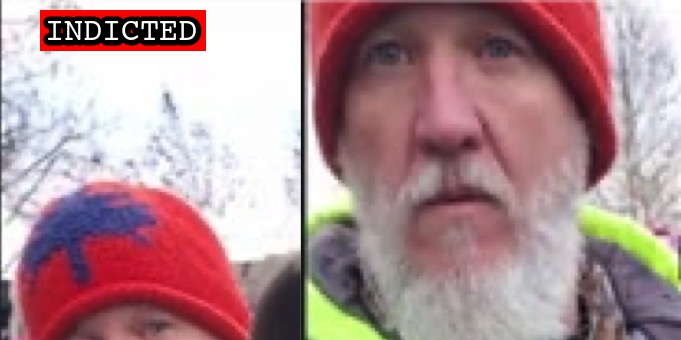
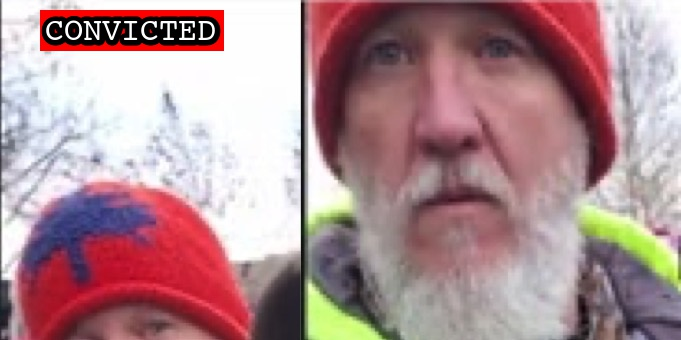
Latest schedule

Changed region(s): [[0.0617, 0.0294, 0.3392, 0.1765]]

diff --git a/docs/_suspects/daniel-egtvedt.md b/docs/_suspects/daniel-egtvedt.md
@@ -4,11 +4,11 @@ lastName: Egtvedt
 hashtag: TreasonIsTiring
 aka:
 residence: Maryland
-status: Indicted
+status: Convicted
 date: 2021-02-09
 charged: 2021-02-09
 indicted: 2021-03-03
-convicted:
+convicted: 2022-12-16
 acquitted:
 sentenced:
 dismissed:
@@ -17,7 +17,7 @@ plea_hearing:
 trial_date: 2022-12-16
 trial_type: Bench Trial
 jury_selection:
-sentencing:
+sentencing: 2023-03-16
 status_conference:
 age: 57
 occupation:
@@ -32,7 +32,7 @@ raid:
 perpwalk:
 quote:
 title: Daniel Egtvedt charged on February 9, 2021
-description: Click for latest case details. Suspects innocent until proven guilty.
+description: Convicted on December 16, 2022. Click for latest case details.
 author: seditiontrack
 layout: suspect
 published: true
@@ -49,6 +49,34 @@ videos:
 - title: Egtvedt - Late Afternoon BWC.mp4 (0:01:50)
   url: https://propublica-data-j6cases-videos.s3.us-east-1.amazonaws.com/3d127cc0ce2a013960702cde48001122.mp4
 charges:
+- code: 18 USC § 111(a)(1)
+  title: Assaulting, resisting, or impeding certain officers or employees
+  url: https://www.law.cornell.edu/uscode/text/18/111
+  felony: true
+- code: 18 USC § 111(a)(1)
+  title: Assaulting, resisting, or impeding certain officers or employees
+  url: https://www.law.cornell.edu/uscode/text/18/111
+  felony: true
+- code: 18 USC § 231(a)(3)
+  title: Obstruction of Law Enforcement During Civil Disorder
+  url: https://www.law.cornell.edu/uscode/text/18/231
+  felony: true
+- code: 18 USC § 1512(c)(2),2
+  title: Obstruction of an Official Proceeding (Aiding and Abetting)
+  url: https://www.law.cornell.edu/uscode/text/18/1512
+  felony: true
+- code: 18 USC § 1752(a)(1)
+  title: Entering a restricted building or grounds
+  url: https://www.law.cornell.edu/uscode/text/18/1752
+  felony: false
+- code: 18 USC § 1752(a)(2)
+  title: Disorderly and disruptive conduct in a restricted building or grounds
+  url: https://www.law.cornell.edu/uscode/text/18/1752
+  felony: false
+- code: 40 USC § 5104(e)(2)(D)
+  title: Disorderly Conduct in a Capitol Building
+  url: https://www.law.cornell.edu/uscode/text/40/5104
+  felony: false
 sentence:
 ---
 - [News Report](https://www.thedailybeast.com/daniel-egtvedt-rioter-who-boasted-of-gop-ties-was-an-absolute-nightmare-for-capitol-cops-doj-alleges)

diff --git a/docs/_suspects/jodi-wilson.md b/docs/_suspects/jodi-wilson.md
@@ -4,11 +4,11 @@ lastName: Wilson
 hashtag: JodiWilson
 aka:
 residence: Ohio
-status: Charged
+status: Convicted
 date: 2021-08-19
 charged: 2021-08-19
 indicted:
-convicted:
+convicted: 2022-12-14
 acquitted:
 sentenced:
 dismissed:
@@ -32,7 +32,7 @@ raid:
 perpwalk:
 quote:
 title: Jodi Wilson charged on August 19, 2021
-description: Click for latest case details. Suspects innocent until proven guilty.
+description: Convicted on December 14, 2022. Click for latest case details.
 author: seditiontrack
 layout: suspect
 published: true
@@ -41,8 +41,14 @@ caseName: USA v. WILSON
 judge: Colleen Kollar-Kotelly
 videos:
 charges:
+- code: 40 USC § 5104(e)(2)(G)
+  title: Parading, demonstrating or picketing in a Capitol building
+  url: https://www.law.cornell.edu/uscode/text/40/5104
+  felony: false
 sentence:
 ---
 - [News Report](https://www.13abc.com/2021/08/20/swanton-residents-charged-jan-6-riot-us-capitol/)
 - [Affidavit](https://www.scribd.com/document/520951756/Wilson-Affidavit#from_embed)
 - [Statement of Facts](https://www.justice.gov/usao-dc/case-multi-defendant/file/1428571/download)
+- [Statement of Offense](https://storage.courtlistener.com/recap/gov.uscourts.dcd.245454/gov.uscourts.dcd.245454.72.0_1.pdf)
+- [Plea Agreement](https://storage.courtlistener.com/recap/gov.uscourts.dcd.245454/gov.uscourts.dcd.245454.73.0.pdf)

diff --git a/docs/_suspects/gregory-nix.md b/docs/_suspects/gregory-nix.md
@@ -4,11 +4,11 @@ lastName: Nix
 hashtag:
 aka:
 residence: Alabama
-status: Indicted
+status: Convicted
 date: 2021-11-10
 charged: 2021-11-10
 indicted: 2021-11-17
-convicted:
+convicted: 2022-12-16
 acquitted:
 sentenced:
 dismissed:
@@ -17,7 +17,7 @@ plea_hearing: 2022-12-16
 trial_date:
 trial_type:
 jury_selection:
-sentencing:
+sentencing: 2023-03-10
 status_conference:
 age: 52
 occupation:
@@ -32,7 +32,7 @@ raid:
 perpwalk:
 quote:
 title: Gregory Nix charged on November 10, 2021
-description: Click for latest case details. Suspects innocent until proven guilty.
+description: Convicted on December 16, 2022. Click for latest case details.
 author: seditiontrack
 layout: suspect
 published: true
@@ -41,6 +41,10 @@ caseName: USA v. NIX
 judge: Beryl A. Howell
 videos:
 charges:
+- code: 18 USC § 111(a)(1) and (b)
+  title: Assaulting, resisting, or impeding certain officers or employees (using a deadly or dangerous weapon)
+  url: https://www.law.cornell.edu/uscode/text/18/111
+  felony: true
 sentence:
 ---
 - [News Report](https://www.al.com/news/birmingham/2021/11/alabama-man-52-charged-with-assault-on-law-enforcement-during-jan-6-breach-at-us-capitol.html)

diff --git a/docs/_suspects/josiah-kenyon.md b/docs/_suspects/josiah-kenyon.md
@@ -41,13 +41,12 @@ caseName: USA v. KENYON
 judge: Carl J. Nichols
 videos:
 charges:
-  - code: 18 USC § 111(a)(1) and (b)
-    title: Assaulting, resisting, or impeding certain officers or employees (using a deadly or dangerous weapon)
-    url: https://www.law.cornell.edu/uscode/text/18/111
-    felony: true
+- code: 18 USC § 111(a)(1) and (b)
+  title: Assaulting, resisting, or impeding certain officers or employees (using a deadly or dangerous weapon)
+  url: https://www.law.cornell.edu/uscode/text/18/111
+  felony: true
 sentence:
 ---
-
 - [News Report](https://thisisreno.com/2021/12/nevada-man-faces-charges-in-jan-6-capitol-assault/)
 - [Statement of Facts](https://www.justice.gov/usao-dc/case-multi-defendant/file/1459136/download)
 - [Indictment](https://www.justice.gov/usao-dc/case-multi-defendant/file/1459126/download)

diff --git a/docs/_suspects/lewis-cantwell.md b/docs/_suspects/lewis-cantwell.md
@@ -41,16 +41,15 @@ caseName: USA v. CANTWELL
 judge: Colleen Kollar-Kotelly
 videos:
 charges:
-  - code: 18 USC § 231(a)(3)
-    title: Obstruction of Law Enforcement During Civil Disorder
-    url: https://www.law.cornell.edu/uscode/text/18/231
-    felony: true
+- code: 18 USC § 231(a)(3)
+  title: Obstruction of Law Enforcement During Civil Disorder
+  url: https://www.law.cornell.edu/uscode/text/18/231
+  felony: true
 sentence:
   - 5 months incarceration
   - 3 years probation
   - $0 restitution
 ---
-
 - [News Report](https://www.smokymountainnews.com/news/item/30846-sylva-man-arrested-in-connection-with-capitol-riots)
 - [Complaint](https://extremism.gwu.edu/sites/g/files/zaxdzs2191/f/Lewis%20Easton%20Cantwell%20Indictment.pdf)
 - [Indictment](https://www.justice.gov/usao-dc/case-multi-defendant/file/1378511/download)

diff --git a/docs/_suspects/kasey-hopkins.md b/docs/_suspects/kasey-hopkins.md
@@ -46,3 +46,5 @@ sentence:
 - [News Report](https://www.kshb.com/news/crime/kansas-city-kansas-man-arrested-charged-for-entering-u-s-capitol-during-jan-6-riot)
 - [Complaint](https://www.justice.gov/usao-dc/case-multi-defendant/file/1524376/download)
 - [Statement of Facts](https://www.justice.gov/usao-dc/case-multi-defendant/file/1524381/download)
+- [Plea Agreement](https://www.justice.gov/usao-dc/case-multi-defendant/file/1558401/download)
+- [Statement of Offense](https://www.justice.gov/usao-dc/case-multi-defendant/file/1558406/download)

diff --git a/docs/_suspects/ryan-zink.md b/docs/_suspects/ryan-zink.md
@@ -18,7 +18,7 @@ trial_date:
 trial_type:
 jury_selection:
 sentencing:
-status_conference: 2022-12-15
+status_conference: 2023-01-03
 age: 32
 occupation: Business Owner
 affiliations:

diff --git a/docs/_suspects/jerod-bargar.md b/docs/_suspects/jerod-bargar.md
@@ -18,7 +18,7 @@ trial_date:
 trial_type:
 jury_selection:
 sentencing:
-status_conference: 2022-12-15
+status_conference: 2023-03-09
 age: 36
 occupation:
 affiliations:

diff --git a/docs/_suspects/justin-adams.md b/docs/_suspects/justin-adams.md
@@ -18,7 +18,7 @@ trial_date:
 trial_type:
 jury_selection:
 sentencing:
-status_conference: 2022-12-15
+status_conference: 2022-12-16
 age: 48
 occupation:
 affiliations:

diff --git a/docs/_suspects/michael-pope.md b/docs/_suspects/michael-pope.md
@@ -18,7 +18,7 @@ trial_date:
 trial_type:
 jury_selection:
 sentencing:
-status_conference: 2022-12-15
+status_conference: 2023-02-03
 age: 32
 occupation:
 affiliations:

diff --git a/docs/_suspects/william-pope.md b/docs/_suspects/william-pope.md
@@ -18,7 +18,7 @@ trial_date:
 trial_type:
 jury_selection:
 sentencing:
-status_conference: 2022-12-15
+status_conference: 2023-02-03
 age: 35
 occupation:
 affiliations:

diff --git a/docs/_suspects/christopher-grider.md b/docs/_suspects/christopher-grider.md
@@ -14,7 +14,7 @@ sentenced:
 dismissed:
 deceased:
 plea_hearing:
-trial_date: 2022-12-16
+trial_date: 2022-12-19
 trial_type: Bench Trial
 jury_selection:
 sentencing:
